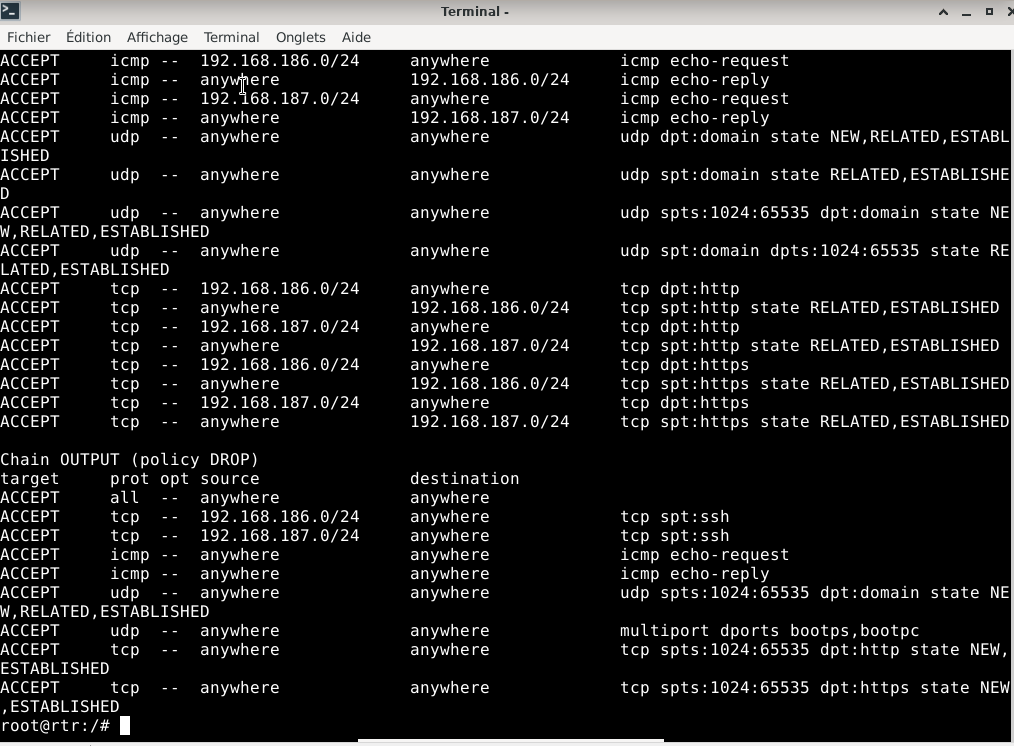
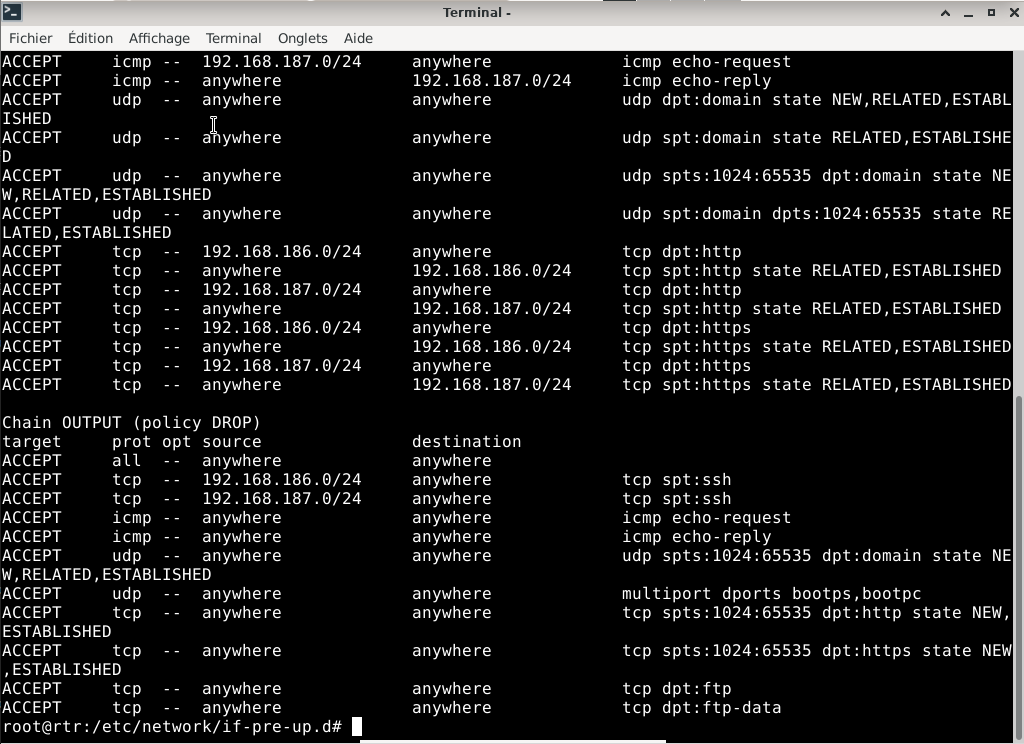
serveur web v1

diff --git a/Serveur web Apache sécurisation SSL/README.md b/Serveur web Apache sécurisation SSL/README.md
@@ -1,0 +1,116 @@
+# Serveur Web Apache Sécurisation via SSL.
+
+ Un serveur web est juste un ordinateur qui stocke, traite et livre des fichiers de site web aux navigateurs web.
+
+Les serveurs web sont constitués de matériel et de logiciels qui utilisent le protocole de transfert hypertexte (HTTP) pour répondre aux demandes des internautes faites via Internet.(https://www.hostinger.fr/tutoriels/serveur-web)
+
+Le port 80 est le numéro de port attribué au protocole de communication Internet couramment utilisé, Hypertext Transfer Protocol (HTTP). Il s'agit du port à partir duquel un ordinateur envoie et reçoit des communications et des messages basés sur un client Web d'un serveur Web et est utilisé pour envoyer et recevoir des pages ou des données HTML.(https://fr.theastrologypage.com/port-80)
+
+Le port 443 est un port utilisé pour les communications sécurisées sur Internet. Il est principalement utilisé pour établir des connexions HTTPS, qui sont des connexions chiffrées basées sur le protocole HTTP. Le port 443 est crucial pour protéger les données privées des utilisateurs lorsqu’ils naviguent sur Internet, en évitant les attaques de type “man-in-the-middle” et les sites web frauduleux.(https://tt-hardware.com/pc/port-443/)
+
+Schéma logique :
+
+![lan.PNG](lan.PNG)
+### Objectifs : 	
+
+- Configurer une machine Linux en réseau
+- installer un serveur LAMP
+- Mettre en œuvre un site Web
+- Sécurisation avec un certificat pour le standard HTTPS.
+
+## Configuration du serveur web :
+
+enregistrement dns :
+
+![dns.PNG](dns.PNG)
+
+
+![dns2.PNG](dns2.PNG)
+
+enregistrement dns inverse :
+
+![dns1.PNG](dns1.PNG)
+
+réservation de l'adresse ip auprès du serveur Dhcp :
+
+![dhcp.PNG](dhcp.PNG)
+
+Pour que le serveur web  installe des paquets il faut autoriser les ports ftp :
+
+![ftp.PNG](ftp.PNG)
+
+Si un serveur Dns, n'a pas été mis en place il faudra éditer le fichier hosts de toutes les machines, ce qui est long est embétant si on a une centaine de machine dans le réseau.
+
+exemple :
+Pour la résolution du nom du serveur web nous pouvons éditer le fichier /etc/host et ajouter cette ligne :
+
+![host.PNG](host.PNG)
+
+## Installation et configuration de base d'apache2 :
+
+il faut installer différents paquets apache2, apache2-utils, mariadb-server, php7.4, php7.4-mysql
+
+Pour télécharger php7.4 :
+
+```sh
+sudo apt -y install lsb-release apt-transport-https ca-certificates
+``` 
+
+```sh
+wget -O /etc/apt/trusted.gpg.d/php.gpg https://packages.sury.org/php/apt.gpg
+```
+```sh
+echo "deb https://packages.sury.org/php/ $(lsb_release -sc) main" | sudo tee /etc/apt/sources.list.d/php.list
+```
+```sh
+ apt-get update
+```
+```sh
+apt -y install php7.4
+```
+
+Je crée un répertoire dans /var/www/ :
+
+```sh
+mkdir /var/www/monsite
+```
+
+je crée deux pages Web une en html, l’autre en PHP :
+
+![ls.PNG](ls.PNG)
+
+Ensuite je crée le fichier de configuration de mon site :
+
+```sh
+touch /etc/apache2/sites-available/monsite.conf
+```
+Je configure, mon virtual host dans mon fichier de conf :
+
+![vh.PNG](vh.PNG)
+
+``` sh
+ServerName monsite 	# FQDN permettant l’accès au site
+DocumentRoot /var/www/monsite # répertoire de base des pages HTML
+<Directory /var/www/monsite> #droit d’accès au pages donc au site !
+	Require all granted	#Autorisation pour tout le monde
+</Directory>
+```
+Pour activer le site il faut taper la commande :
+
+```sh
+a2ensite monsite.conf
+```
+
+cette commande permet d'active un site qui est lié à un fichier conf qui contient un virtual host et cela créer un lien symbolique dans  /etc/apache2/sites-enabled/
+
+Pour désactiver le site il faut taper la commande :
+
+```sh
+a2dissite monsite.conf
+```
+
+On redémmare le service apache2.
+
+Test depuis mon routeur :
+
+![site.PNG](site.PNG)

diff --git a/Routeurs-Pare-feux Iptables sous Linux/README.md b/Routeurs-Pare-feux Iptables sous Linux/README.md
@@ -78,10 +78,11 @@ Les règles :
 
 ![r4.PNG](r4.PNG)
 
-Je sauvegarde mes règles pour qu'elles s'activent à chaque démarrage :
+Pour que mon script à chaque démmarage, je rajoute cette ligne:
 
 ![sauvegarde.PNG](sauvegarde.PNG)
 
+et je déplace le script dans le répertoire /etc/network/if-pre-id.d/
 L'ensemble des règles :
 
 ![img5.PNG](img5.PNG)

diff --git a/README.md b/README.md
@@ -13,3 +13,5 @@ V. Routeurs/Pare-feux Iptables sous Linux
 VI. Serveur Web NGINX Linux
 
 VII. Serveur OCS Inventory Linux
+
+VIII. Serveur Web Apache Sécurisation via SSL.
